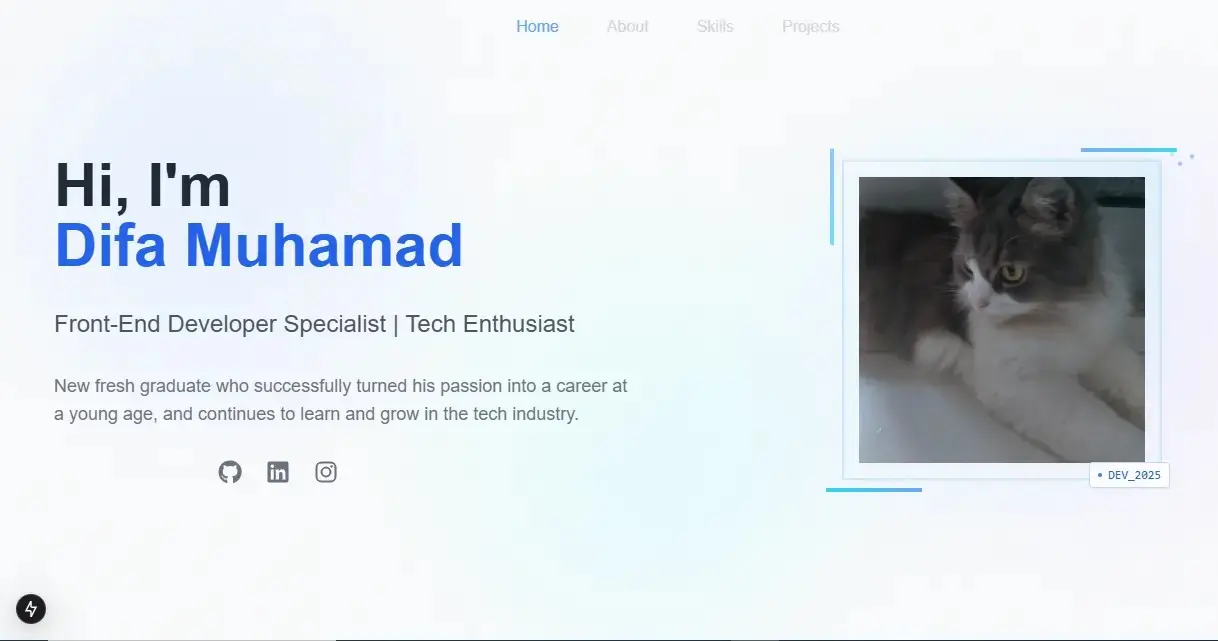
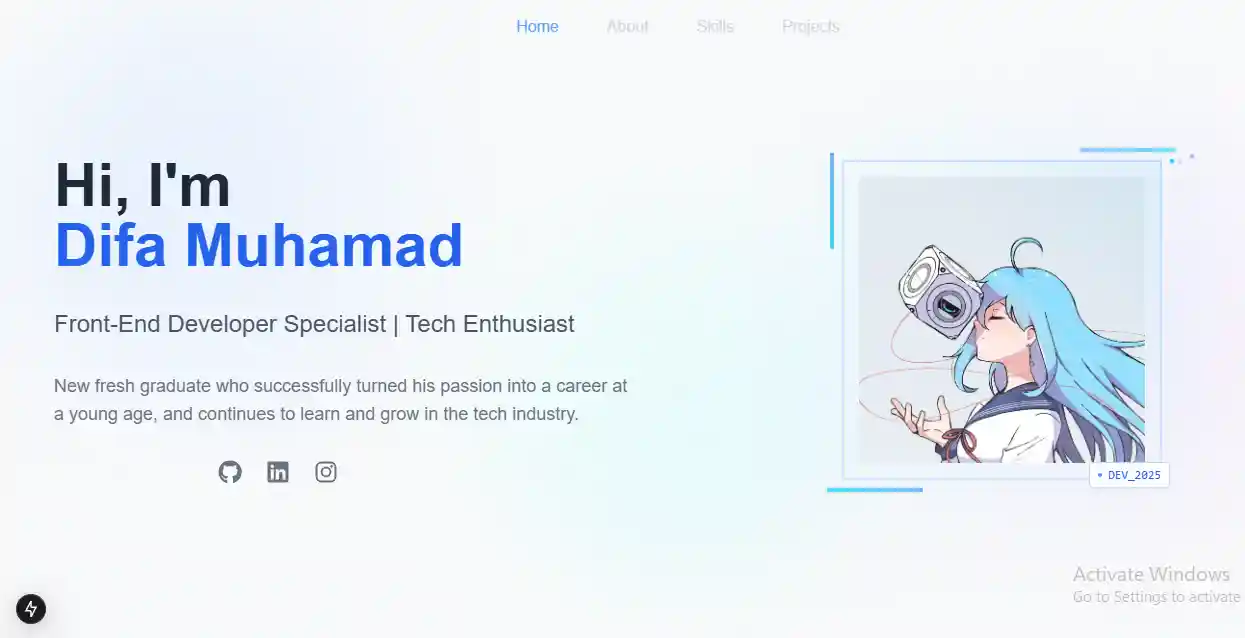
fix: fix all the typo and change the project image

diff --git a/app/projects/page.tsx b/app/projects/page.tsx
@@ -32,7 +32,7 @@ type Project = {
 const projects: Project[] = [
   {
     id: 1,
-    title: "ARABINESIA",
+    title: "Learning Platform | ARABINESIA",
     description:
       "arabinesia is a learning platform application for learning Indonesian for foreign speakers, with Arabic delivery.",
     media: {
@@ -47,7 +47,7 @@ const projects: Project[] = [
     id: 2,
     title: "Void Story",
     description:
-      "Void story is an application for posting or sharing moments like Instagram but with a lighter version and futuristic design. This application is made using MVP architecture.",
+      "Void story is an application for posting or sharing moments like Instagram but with a lighter version and futuristic design. This application is made using SPA with MVP architecture using vanilla (non-framework) javascript.",
     media: {
       type: "image",
       src: "/projects/void-story-page.webp",
@@ -65,7 +65,7 @@ const projects: Project[] = [
       type: "image",
       src: "/projects/portofolio-web-page.webp",
     },
-    tags: ["Next.js", "Framer Motion", "Tailwind CSS", "TypeScript"],
+    tags: ["React", "Framer Motion", "Tailwind CSS", "TypeScript"],
     link: "https://github.com/difamuhamad/",
     github: "https://github.com/difamuhamad/void-story",
   },
@@ -225,7 +225,7 @@ export default function Projects() {
                         title="View Live Demo"
                       >
                         <FiExternalLink className="w-4 h-4" />
-                        <span>Live Demo</span>
+                        <span>View Site</span>
                       </button>
                     )}
                   </div>
@@ -314,7 +314,7 @@ export default function Projects() {
                         className="flex items-center gap-2 text-white hover:text-white bg-blue-600 hover:bg-blue-500 px-5 py-2.5 rounded-lg transition-colors text-sm font-medium"
                       >
                         <FiExternalLink className="w-5 h-5" />
-                        <span>Live Demo</span>
+                        <span>View Site</span>
                       </button>
                     )}
                   </div>

diff --git a/app/skills/page.tsx b/app/skills/page.tsx
@@ -11,6 +11,10 @@ import {
   SiPostgresql,
   SiSupabase,
   SiExpress,
+  SiPostman,
+  SiWebpack,
+  SiFigma,
+  SiPrisma,
 } from "react-icons/si";
 import { FiCode, FiDatabase, FiTool } from "react-icons/fi";
 
@@ -24,12 +28,16 @@ const skills = {
       icon: <SiTailwindcss className="text-[#06B6D4]" />,
     },
     { name: "JavaScript", icon: <SiJavascript className="text-[#F7DF1E]" /> },
+    { name: "Webpack", icon: <SiWebpack className="text-[#06B6D4]" /> },
+    { name: "Figma", icon: <SiFigma className="text-[#ff008c]" /> },
   ],
   "Backend Development": [
     { name: "PostgreSQL", icon: <SiPostgresql className="text-[#336791]" /> },
     { name: "MySQL", icon: <SiMysql className="text-[#4479A1]" /> },
     { name: "Supabase", icon: <SiSupabase className="text-[#3ECF8E]" /> },
     { name: "Express", icon: <SiExpress className="text-[#000000]" /> },
+    { name: "Prisma", icon: <SiPrisma className="text-[#000000]" /> },
+    { name: "Postman", icon: <SiPostman className="text-[#ff5825]" /> },
   ],
 };
 

diff --git a/app/about/page.tsx b/app/about/page.tsx
@@ -85,8 +85,12 @@ export default function About() {
                 Development into a successful career by building company and
                 client projects, now honing skills in Golang technology to solve
                 problems and mastering Backend Development.
-                <br />
-                I&apos;m always looking out for new things to explore. I love to
+              </p>
+              <p
+                id="about-description-2"
+                className="text-lg md:text-xl text-gray-600 leading-relaxed"
+              >
+                I always looking out for new things to explore. I love to
                 collaborate with like-minded people who are fueled by curiosity.
                 I work with TypeScript/JavaScript ecosystems for my web
                 development projects.

diff --git a/app/home/page.tsx b/app/home/page.tsx
@@ -105,7 +105,7 @@ export default function HomePage() {
                   {/* Image placeholder - replace with your actual Image component */}
                   <div className="absolute inset-0 bg-gray-200">
                     <Image
-                      src="/profile.webp"
+                      src="/vivy-profile2.webp"
                       alt="Profile picture"
                       fill
                       className="object-cover"

diff --git a/app/experience/page.tsx b/app/experience/page.tsx
@@ -23,7 +23,7 @@ export default function ExperiencePage() {
             <p className="text-gray-600 text-sm leading-relaxed">
               Graduated from Islamic boarding school with the Valedictorian
               honor (Top Graduate), and completed the memorization of 15
-              chapters (juz) of the Qur&atos;an
+              chapters (juz) of the Qur&apos;an
             </p>
           </div>
         </div>
